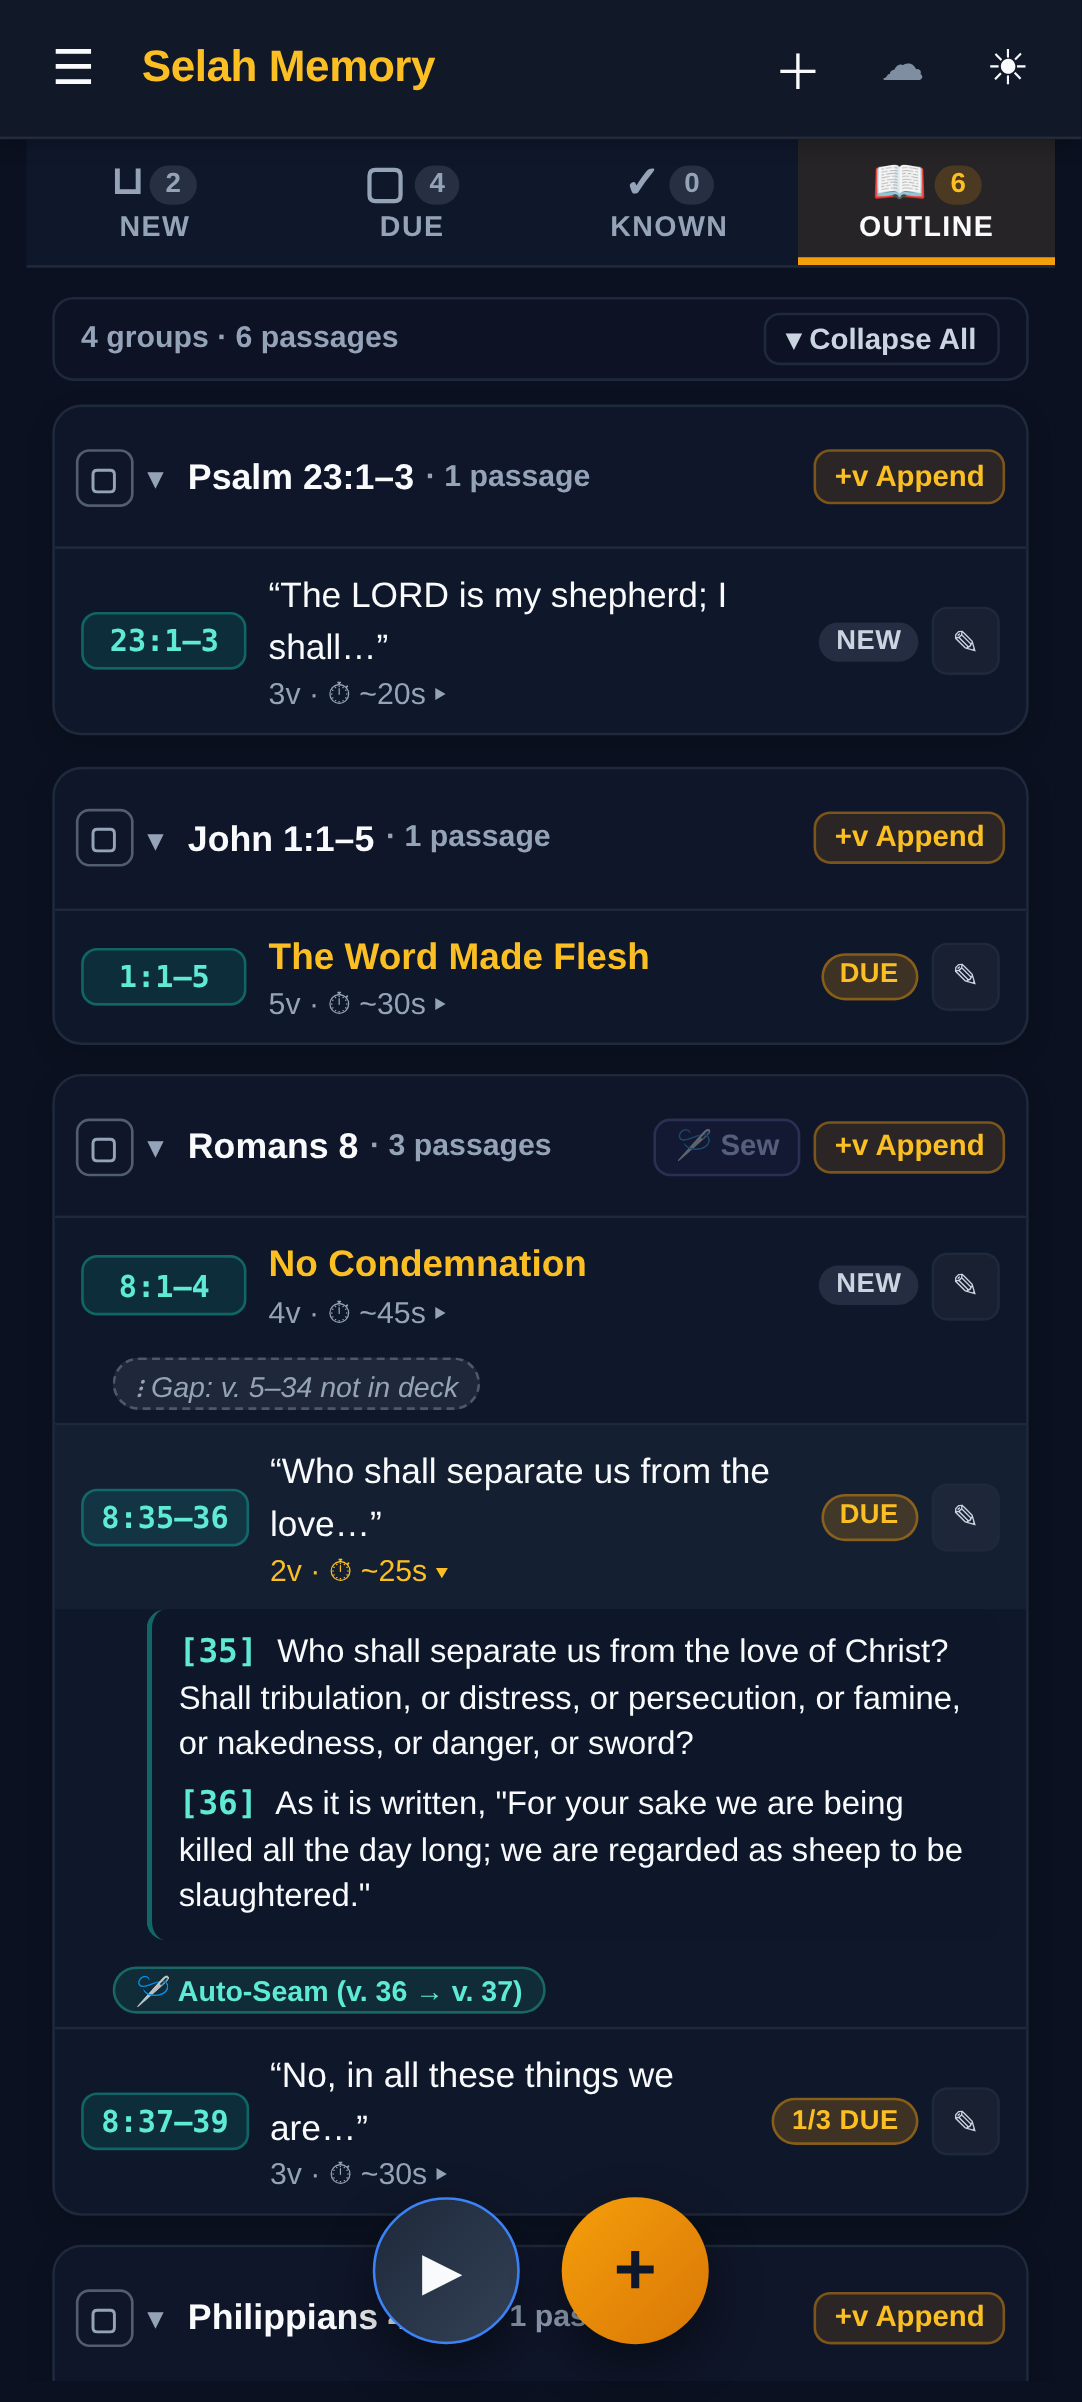
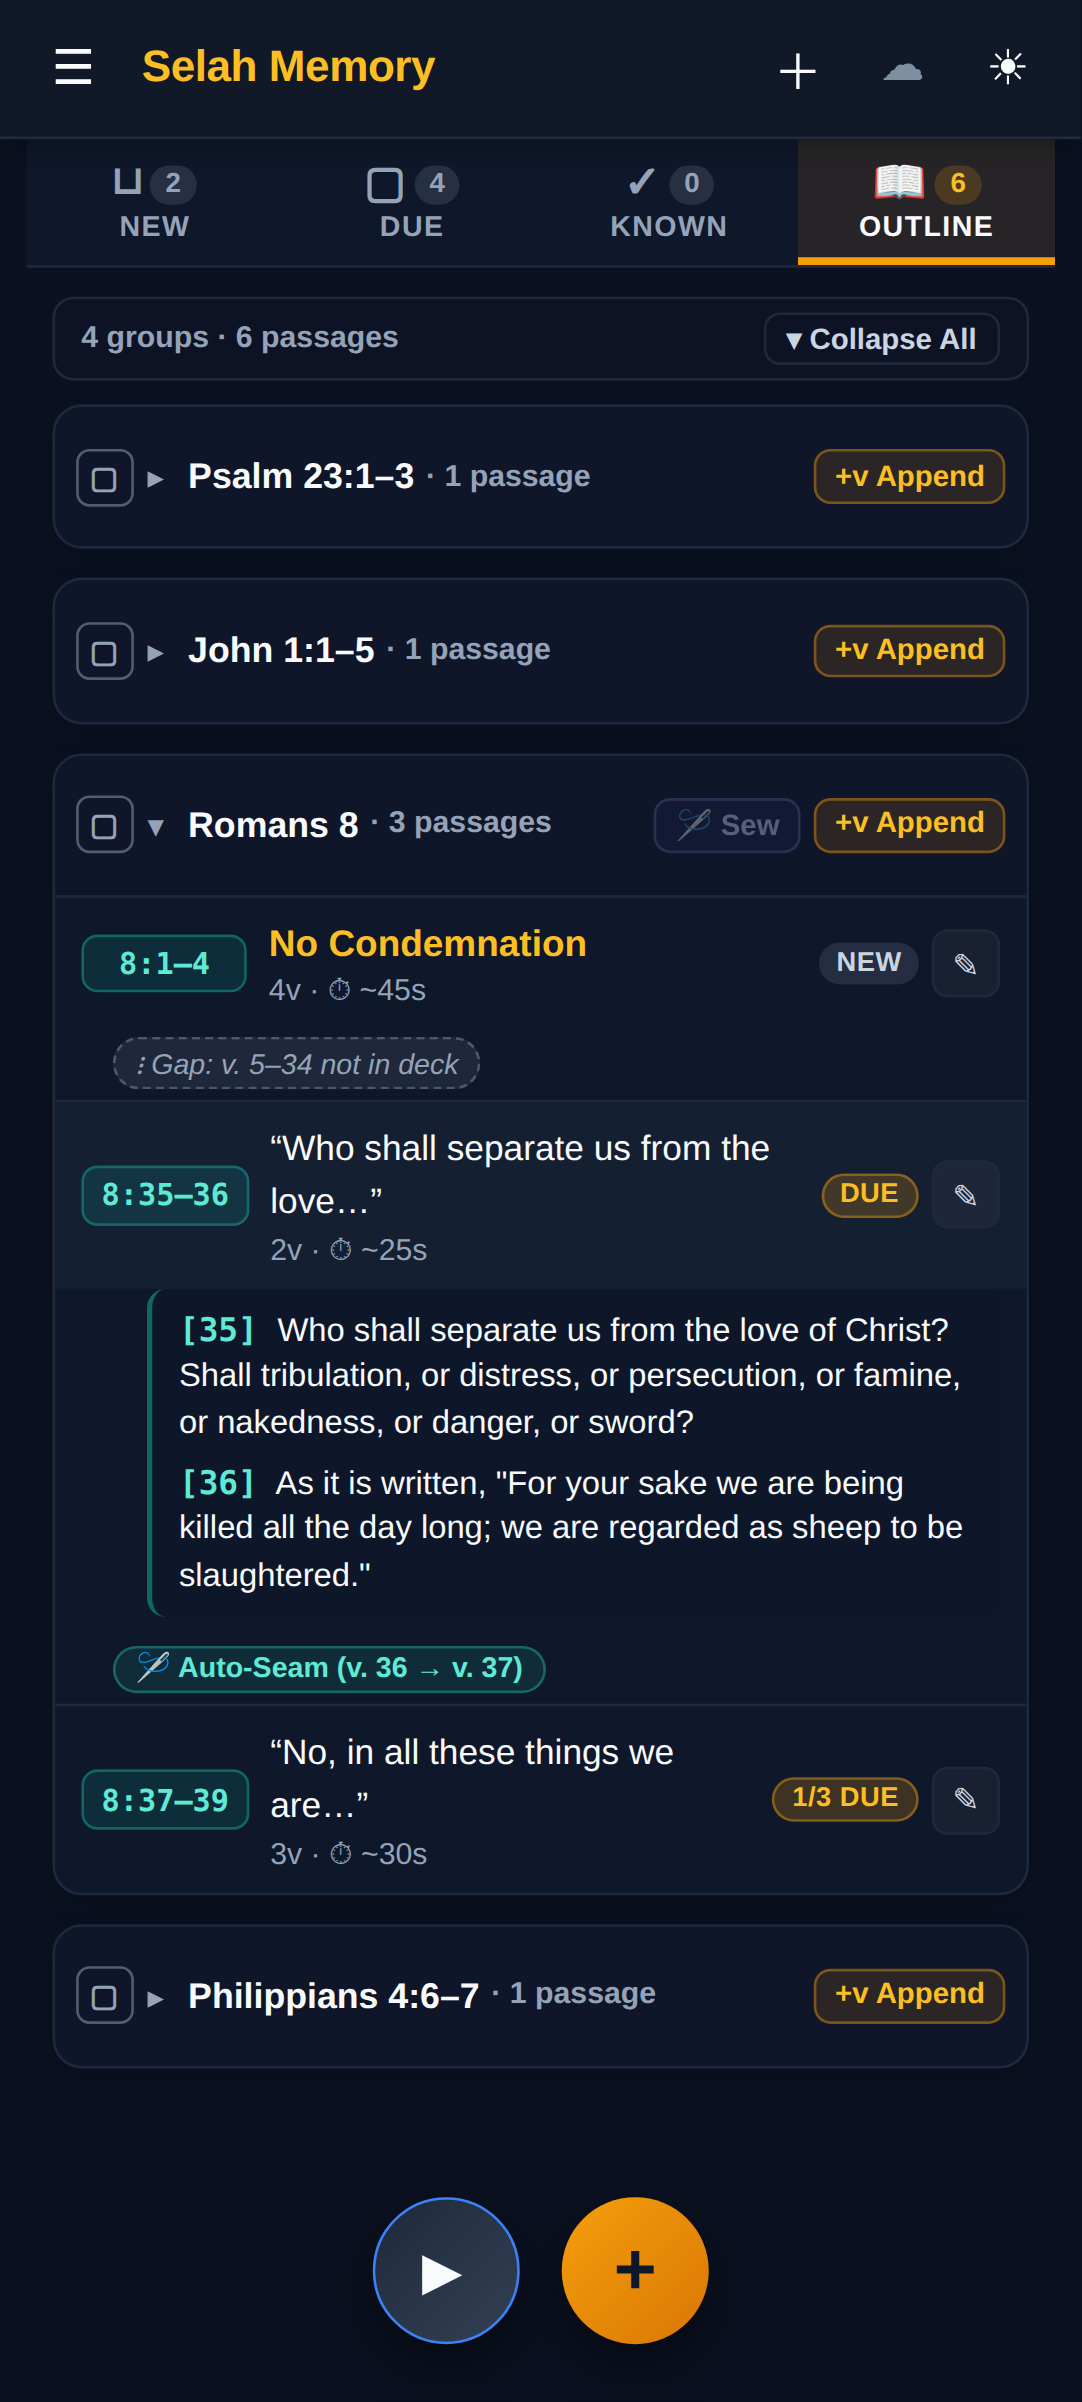
feat(outline): collapse outline groups by default and toggle inline verses by tapping sub-passage rows

diff --git a/src/app/features/deck/deck-dashboard.component.ts b/src/app/features/deck/deck-dashboard.component.ts
@@ -783,7 +783,10 @@ const FALLBACK_CHAPTER_VERSE_COUNTS: Record<string, number> = {
                     [attr.data-testid]="'outline-group-' + gIdx"
                   >
                     <!-- Compact 42px Single-Line Group Header -->
-                    <header class="rm-outline-group-header">
+                    <header
+                      class="rm-outline-group-header"
+                      (click)="toggleOutlineGroup(group.groupKey, $event)"
+                    >
                       <!-- Top-Level Group Multi-Select Checkbox -->
                       <span
                         class="rm-outline-group-checkbox"
@@ -832,7 +835,7 @@ const FALLBACK_CHAPTER_VERSE_COUNTS: Record<string, number> = {
                         </span>
                       </button>
 
-                      <div class="rm-outline-header-actions">
+                      <div class="rm-outline-header-actions" (click)="$event.stopPropagation()">
                         @if (group.chunks.length >= 2) {
                           <button
                             type="button"
@@ -869,10 +872,12 @@ const FALLBACK_CHAPTER_VERSE_COUNTS: Record<string, number> = {
                             <article
                               class="rm-outline-chunk-row"
                               [class.rm-row-selected]="isCardSelected(chunk.item.card.id)"
-                              (click)="onRowClick(chunk.item, $event)"
+                              [class.verses-expanded]="isChunkVersesExpanded(chunk.item.passage.id)"
+                              [attr.aria-expanded]="isChunkVersesExpanded(chunk.item.passage.id)"
+                              (click)="toggleChunkVerses(chunk.item.passage.id, $event)"
                               role="button"
                               tabindex="0"
-                              (keydown.enter)="onRowClick(chunk.item, $event)"
+                              (keydown.enter)="toggleChunkVerses(chunk.item.passage.id, $event)"
                               [attr.data-testid]="'outline-chunk-' + gIdx + '-' + cIdx"
                             >
                               <!-- Left Pill: Verse Range Badge (Click to toggle multi-select) -->
@@ -891,7 +896,7 @@ const FALLBACK_CHAPTER_VERSE_COUNTS: Record<string, number> = {
                                 }
                               </span>
 
-                              <!-- Center: Fast Inline Section Title + Compact Verse Count & Recitation Peek Toggle -->
+                              <!-- Center: Section Title / First Words + Compact Verse Count & Recitation Time -->
                               <div class="rm-outline-chunk-center">
                                 @if (editingOutlinePassageId() === chunk.item.passage.id) {
                                   <div
@@ -932,11 +937,6 @@ const FALLBACK_CHAPTER_VERSE_COUNTS: Record<string, number> = {
                                 } @else {
                                   <div
                                     class="rm-outline-label-line"
-                                    (click)="startInlineLabelEdit(chunk.item.passage, $event)"
-                                    role="button"
-                                    tabindex="0"
-                                    (keydown.enter)="startInlineLabelEdit(chunk.item.passage, $event)"
-                                    title="Tap to edit section title inline"
                                     [attr.data-testid]="'btn-outline-inline-label-' + gIdx + '-' + cIdx"
                                   >
                                     @if (chunk.customLabel) {
@@ -957,15 +957,12 @@ const FALLBACK_CHAPTER_VERSE_COUNTS: Record<string, number> = {
                                   </div>
                                 }
 
-                                <button
-                                  type="button"
+                                <span
                                   class="rm-outline-sub-meta"
-                                  (click)="toggleChunkVerses(chunk.item.passage.id, $event)"
-                                  [attr.aria-expanded]="isChunkVersesExpanded(chunk.item.passage.id)"
                                   [attr.data-testid]="'btn-outline-peek-verses-' + gIdx + '-' + cIdx"
                                 >
-                                  {{ chunk.item.passage.verses.length }}v · ⏱ {{ chunk.recitationTime.label }} {{ isChunkVersesExpanded(chunk.item.passage.id) ? '▾' : '▸' }}
-                                </button>
+                                  {{ chunk.item.passage.verses.length }}v · ⏱ {{ chunk.recitationTime.label }}
+                                </span>
                               </div>
 
                               <!-- Right: Compact SRS State Badge + 26x26 Edit Modal Button -->
@@ -1725,6 +1722,7 @@ const FALLBACK_CHAPTER_VERSE_COUNTS: Record<string, number> = {
         padding: 0.35rem 0.5rem;
         background: rgba(15, 23, 42, 0.58);
         border-bottom: 1px solid var(--rm-divider);
+        cursor: pointer;
       }
 
       .rm-outline-group-checkbox {
@@ -1905,7 +1903,7 @@ const FALLBACK_CHAPTER_VERSE_COUNTS: Record<string, number> = {
         -webkit-box-orient: vertical;
         overflow: hidden;
         line-height: 1.25;
-        cursor: text;
+        cursor: pointer;
       }
 
       .rm-outline-custom-label {
@@ -1995,11 +1993,6 @@ const FALLBACK_CHAPTER_VERSE_COUNTS: Record<string, number> = {
         color: var(--rm-text-muted);
         white-space: nowrap;
         cursor: pointer;
-        transition: color 0.12s ease;
-      }
-
-      .rm-outline-sub-meta:hover {
-        color: #fbbf24;
       }
 
       .rm-outline-chunk-right {
@@ -2290,8 +2283,8 @@ export class DeckDashboardComponent implements OnChanges {
   readonly selectedCardIds = signal<Set<string>>(new Set());
   readonly confirmingDelete = signal<boolean>(false);
 
-  /** Outline expand/collapse and fast inline label editing state */
-  readonly collapsedOutlineGroups = signal<Set<string>>(new Set());
+  /** Outline expand/collapse (defaults to all groups collapsed) and fast inline label editing state */
+  readonly expandedOutlineGroups = signal<Set<string>>(new Set());
   readonly expandedOutlineChunkIds = signal<Set<string>>(new Set());
   readonly editingOutlinePassageId = signal<string | null>(null);
   readonly editingOutlineLabelDraft = signal<string>('');
@@ -2561,36 +2554,41 @@ export class DeckDashboardComponent implements OnChanges {
   }
 
   isGroupCollapsed(groupKey: string): boolean {
-    return this.collapsedOutlineGroups().has(groupKey);
+    return !this.expandedOutlineGroups().has(groupKey);
   }
 
   toggleOutlineGroup(groupKey: string, event?: Event): void {
     event?.stopPropagation();
-    const next = new Set(this.collapsedOutlineGroups());
+    const next = new Set(this.expandedOutlineGroups());
     if (next.has(groupKey)) {
       next.delete(groupKey);
     } else {
       next.add(groupKey);
     }
-    this.collapsedOutlineGroups.set(next);
+    this.expandedOutlineGroups.set(next);
   }
 
   areAllOutlineGroupsCollapsed(): boolean {
     const groups = this.outlineGroups();
     if (groups.length === 0) {
-      return false;
+      return true;
     }
-    const collapsed = this.collapsedOutlineGroups();
-    return groups.every((g) => collapsed.has(g.groupKey));
+    const expanded = this.expandedOutlineGroups();
+    return groups.every((g) => !expanded.has(g.groupKey));
   }
 
-  toggleCollapseAllOutlineGroups(): void {
+  toggleAllOutlineGroups(event?: Event): void {
+    event?.stopPropagation();
     if (this.areAllOutlineGroupsCollapsed()) {
-      this.collapsedOutlineGroups.set(new Set());
+      const allKeys = new Set(this.outlineGroups().map((g) => g.groupKey));
+      this.expandedOutlineGroups.set(allKeys);
       return;
     }
-    const allKeys = new Set(this.outlineGroups().map((g) => g.groupKey));
-    this.collapsedOutlineGroups.set(allKeys);
+    this.expandedOutlineGroups.set(new Set());
+  }
+
+  toggleCollapseAllOutlineGroups(event?: Event): void {
+    this.toggleAllOutlineGroups(event);
   }
 
   isChunkVersesExpanded(passageId: string): boolean {

diff --git a/screenshot-tests/run-screenshot-tests.ts b/screenshot-tests/run-screenshot-tests.ts
@@ -1104,8 +1104,10 @@ async function runScreenshotSuite(): Promise<void> {
       `Expected remaining passage after splitting passage to include "Romans 8:37-39", got "${remainingRefText}"`
     );
 
-    // 9g. mobile-07-chunks-outline.png: Return to Deck Dashboard, click OUTLINE tab, verify hierarchical multi-select, contiguous-only "🪡 Sew",
-    // "passages" vocabulary, first-words default on unlabeled passages ("The LORD is my shepherd…", "Who shall separate us…", "No, in all these things…"), and expand inline verse preview on 8:35–36
+    // 9g. mobile-07-chunks-outline.png: Return to Deck Dashboard, click OUTLINE tab, verify groups default to collapsed,
+    // expand Romans 8, verify hierarchical multi-select, contiguous-only "🪡 Sew", "passages" vocabulary,
+    // first-words default on unlabeled passages ("Who shall separate us…", "No, in all these things…"),
+    // and direct sub-passage row tap to expand/collapse inline verse preview on 8:35–36
     await mobilePage.locator('[data-testid="btn-back-to-deck"]').click();
     const outlineTabBtn = mobilePage.locator('[data-testid="tab-filter-outline"], [data-testid="tab-outline"]').first();
     await outlineTabBtn.waitFor({ state: 'visible', timeout: 10000 });
@@ -1113,9 +1115,25 @@ async function runScreenshotSuite(): Promise<void> {
 
     const outlineSection = mobilePage.locator('[data-testid="outline-page-section"]');
     await outlineSection.waitFor({ state: 'visible', timeout: 10000 });
-    await mobilePage.locator('[data-testid="btn-outline-collapse-all"]').waitFor({ state: 'visible', timeout: 10000 });
+    const collapseAllBtn = mobilePage.locator('[data-testid="btn-outline-collapse-all"]');
+    await collapseAllBtn.waitFor({ state: 'visible', timeout: 10000 });
     await mobilePage.locator('[data-testid="outline-group-select-0"]').waitFor({ state: 'visible', timeout: 10000 });
     await mobilePage.locator('[data-testid="outline-group-select-2"]').waitFor({ state: 'visible', timeout: 10000 });
+
+    // Verify all groups default to collapsed ("▸ Expand All", and [data-testid="outline-chunk-2-1"] is hidden)
+    const initialCollapseAllText = await collapseAllBtn.innerText();
+    assertCondition(
+      initialCollapseAllText.includes('Expand All'),
+      `Expected [data-testid="btn-outline-collapse-all"] to show "▸ Expand All" initially, got "${initialCollapseAllText}"`
+    );
+    assertCondition(
+      (await mobilePage.locator('[data-testid="outline-chunk-2-1"]').count()) === 0,
+      'Expected sub-passages to be collapsed by default when 📖 OUTLINE opens'
+    );
+
+    // Click [data-testid="btn-outline-toggle-group-2"] ("Romans 8 · 3 passages") to expand ONLY the Romans 8 group
+    await mobilePage.locator('[data-testid="btn-outline-toggle-group-2"]').click();
+    await mobilePage.locator('[data-testid="outline-chunk-2-1"]').waitFor({ state: 'visible', timeout: 10000 });
 
     // Verify group 2 (Romans 8 with 8:1-4, 8:35-36, 8:37-39) has group-level "🪡 Sew" disabled due to the gap v. 5–34,
     // while selecting the two contiguous passages (8:35-36 and 8:37-39) shows partial group selection (aria-checked="mixed") and enables batch Sew!
@@ -1139,7 +1157,24 @@ async function runScreenshotSuite(): Promise<void> {
     );
     await mobilePage.locator('[data-testid="btn-clear-selection"]').click();
 
-    await mobilePage.locator('[data-testid="btn-outline-peek-verses-2-1"]').click();
+    // Assert that .rm-outline-sub-meta does NOT contain ▸ or ▾
+    const subMetaTexts = await mobilePage.locator('.rm-outline-sub-meta').allInnerTexts();
+    assertCondition(
+      subMetaTexts.length > 0 && subMetaTexts.every((t) => !t.includes('▸') && !t.includes('▾')),
+      `Expected .rm-outline-sub-meta to not contain ▸ or ▾ arrows, got: ${JSON.stringify(subMetaTexts)}`
+    );
+
+    // Click the sub-passage row [data-testid="outline-chunk-2-1"] directly to expand, click again to verify collapse, and click once more so [35] and [36] are expanded
+    const subPassageRow21 = mobilePage.locator('[data-testid="outline-chunk-2-1"]');
+    await subPassageRow21.click();
+    await mobilePage.locator('[data-testid="outline-chunk-verses-2-1"]').waitFor({ state: 'visible', timeout: 10000 });
+    await subPassageRow21.click();
+    await mobilePage.waitForTimeout(100);
+    assertCondition(
+      (await mobilePage.locator('[data-testid="outline-chunk-verses-2-1"]').count()) === 0,
+      'Expected clicking [data-testid="outline-chunk-2-1"] a second time to collapse its inline verses'
+    );
+    await subPassageRow21.click();
     await mobilePage.locator('[data-testid="outline-chunk-verses-2-1"]').waitFor({ state: 'visible', timeout: 10000 });
     await mobilePage.waitForTimeout(200);
 
@@ -1147,10 +1182,6 @@ async function runScreenshotSuite(): Promise<void> {
     assertCondition(
       outlineText.includes('passages') && !outlineText.toLowerCase().includes('chunks'),
       `Expected Outline tab header text to use "passages" vocabulary instead of "chunks", got: ${outlineText}`
-    );
-    assertCondition(
-      outlineText.toLowerCase().includes('the lord is my shepherd'),
-      `Expected unlabeled passage (Psalm 23:1–3) on Outline tab to display opening words ("The LORD is my shepherd…"), got: ${outlineText}`
     );
     assertCondition(
       outlineText.includes('No Condemnation') &&
@@ -1169,12 +1200,12 @@ async function runScreenshotSuite(): Promise<void> {
 
     await captureStepScreenshot(mobilePage, 'mobile-07-chunks-outline.png', stepResults, {
       step: '9g',
-      name: 'Mobile Phone (412x915): Passages Outline View (📖 OUTLINE Tab with First-Words Default, Group Multi-Select, Gap & Auto-Seam Connectors, Contiguous 🪡 Sew & Inline Verse Preview)',
+      name: 'Mobile Phone (412x915): Passages Outline View (📖 OUTLINE Tab with Collapsed-by-Default Groups, Expanded Romans 8, First-Words Default, Direct Row Tap Verse Peek & Contiguous 🪡 Sew)',
       assertions: [
-        'Single-line group headers ("Romans 8 · 3 passages") with top-level checkbox ([data-testid="outline-group-select-0"]), ▾ expand/collapse chevron, and Collapse All button',
-        'Unlabeled passages (Psalm 23:1–3, Romans 8:35–36, Romans 8:37–39) display their opening words while labeled passages display their titles',
+        'Groups default to collapsed (▸) with single-line headers; Romans 8 · 3 passages is expanded (▾) while Psalm 23, John 1, and Philippians 4 remain compactly collapsed',
+        'Unlabeled split passages (Romans 8:35–36, Romans 8:37–39) display their opening words while labeled passages display their titles',
+        'Tapping sub-passage row [data-testid="outline-chunk-2-1"] directly expands/collapses its inline verses ([35] Who shall separate us...) without a ▸/▾ arrow in .rm-outline-sub-meta',
         'Honest ⋮ Gap: v. 5–34 not in deck and 🪡 Auto-Seam (v. 36 → v. 37) connectors with contiguous-only 🪡 Sew validation',
-        'Expanded inline verse preview ([35] Who shall separate us...) under 8:35–36',
       ],
     });
 
